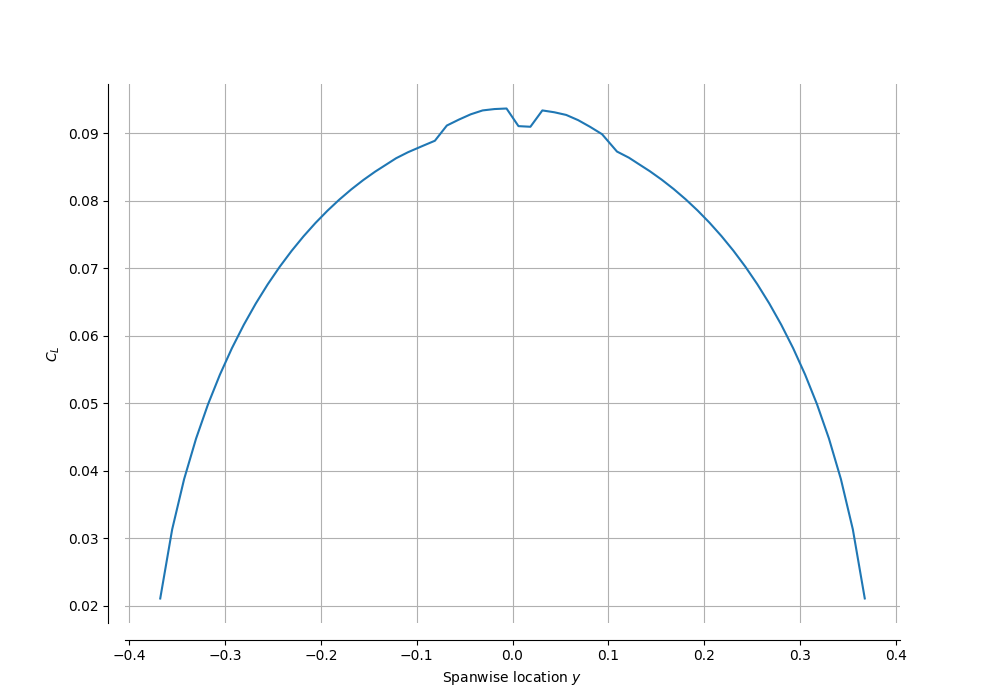
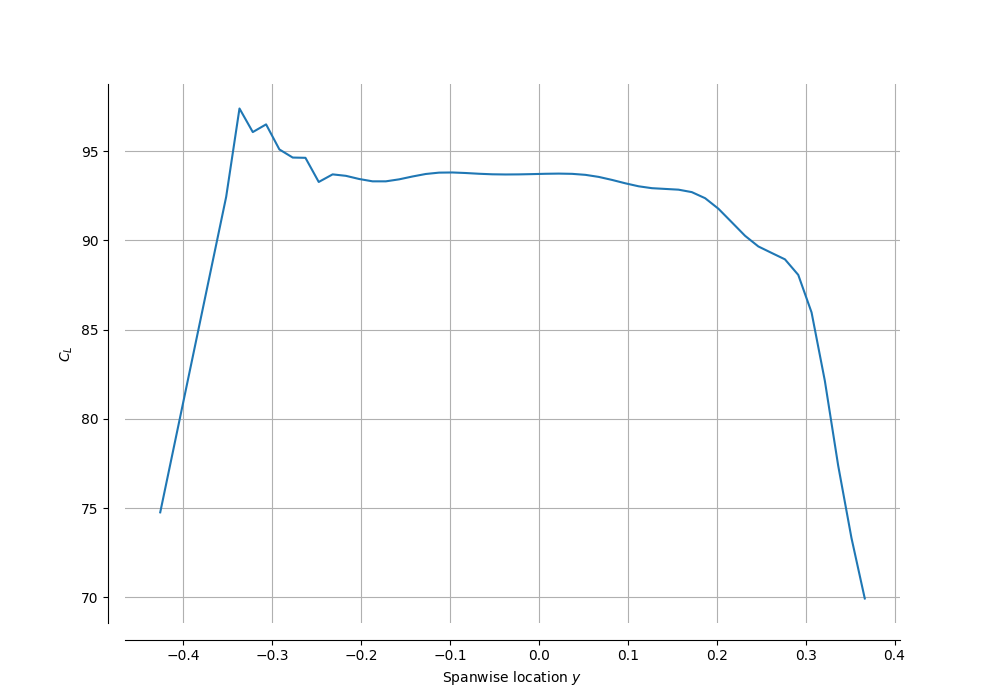
minor changes

diff --git a/optimisation/main_optimisation.py b/optimisation/main_optimisation.py
@@ -43,11 +43,11 @@ class master(om.Group):
                 N_elem_span += geometry_def.parametric_def[iParametric].span[iSpan].N_elem_span
         
         span_max = 0.748*2
-        self.add_subsystem('rethorst', subsys=Rethorst(span_max=span_max, vel_distr_shape=N_elem_span, panels_span_VLM=60))
+        self.add_subsystem('rethorst', subsys=Rethorst(span_max=span_max, vel_distr_shape=N_elem_span, panels_span_VLM=50, panels_chord_VLM=2))
 
         self.add_subsystem('prop_weight', subsys=propweight())
 
-        self.add_subsystem('EOAS', subsys=EOAS(panels_span_VLM=60, span_0=0.748, radii_shape=N_elem_span+1))
+        self.add_subsystem('EOAS', subsys=EOAS(panels_span_VLM=50, panels_chord_VLM=2, span_0=0.748, radii_shape=N_elem_span+1))
 
         self.add_subsystem('obj_function', subsys=obj_function())
 
@@ -91,12 +91,13 @@ class master(om.Group):
         # ================================      
         self.connect('EOAS.AS_point_0.wing_perf.L',                     'obj_function.lift')
         self.connect('EOAS.AS_point_0.wing_perf.D',                     'obj_function.drag')
+        self.connect('EOAS.wing.structural_mass',                       'obj_function.weight_struc')
 
         # ==================================
         # ===== Connecting Constraints =====
         # ==================================
         # self.connect('EOAS.AS_point_0.wing_perf.L',                     'constraints.lift')
-        # self.connect('EOAS.AS_point_0.total_perf.fuelburn',             'constraints.fuel_weight')
+        self.connect('EOAS.AS_point_0.fuelburn',                        'obj_function.fuelburn')
         # self.connect('EOAS.AS_point_0.total_perf.wing_structural_mass', 'constraints.struc_weight')
         # self.connect('helix.rotorcomp_0_thrust',                        'constraints.thrust')
         # self.connect('EOAS.AS_point_0.wing_perf.L',                     'constraints.drag')
@@ -115,14 +116,14 @@ class master(om.Group):
                 # self.add_design_var(name + "alpha_L0",lower=-0.5, upper=0.5)
                 # self.add_design_var(name + "Cl_alpha",lower=np.pi, upper=2.5*np.pi)
         
-        self.add_design_var('parameters.span', lower=1.*0.5, upper=span_max, scaler=1/0.748)
-        self.add_design_var('parameters.jet_loc', lower=-0.5*0.748, upper=0.5*0.748, scaler=1/0.374)
+        # self.add_design_var('parameters.span', lower=1.*0.5, upper=span_max, scaler=1/0.748)
+        self.add_design_var('parameters.jet_loc', lower=-0.5*0.748, upper=0.5*0.748, scaler=1.)
         self.add_design_var('parameters.chord', lower=0.2*0.48, upper=4.*0.48, scaler=1/0.48)
         # self.add_design_var('parameters.twist', lower=-3, upper=3, scaler=1.)
         
-        self.add_objective("obj_function.objective", scaler=1./0.02931652)
+        self.add_objective("obj_function.objective", scaler=1.)
         
-        self.add_constraint('EOAS.AS_point_0.wing_perf.L', equals=4.05033303)
+        self.add_constraint('EOAS.AS_point_0.wing_perf.L', equals=10.20319207)#9.02647648)
         # self.add_constraint('constraints.constraint_thrust_drag', equals=0.)
         # self.add_constraint('constraints.constraint_lift_weight', equals=0.)
         self.add_constraint('constraints.constraint_jetloc', upper=0.)
@@ -166,7 +167,7 @@ if True:
             dihed[iSpan] = parametric.parametric_def[iParametric].span[iSpan].dihed
 
 prob.setup(mode='fwd')
-print(span)
+
 prob.set_val(name + "span", val=span)
 prob.set_val(name + "chord",val=chord)
 prob.set_val(name + "twist",val=twist)
@@ -203,10 +204,11 @@ print('wing span: \t\t', prob.get_val('rethorst.span'))
 print('propeller location:\t', prob.get_val('rethorst.jet_loc'))
 print('chord: \t\t', prob.get_val('parameters.chord'))
 print('twist: \t\t', prob.get_val('parameters.twist'))
-print('L/D:\t\t', prob.get_val('EOAS.AS_point_0.wing_perf.aero_funcs.L')/prob.get_val('EOAS.AS_point_0.wing_perf.aero_funcs.D'))
-print('CL: \t\t', prob.get_val('EOAS.AS_point_0.wing_perf.CL'))
-print('CD: \t\t', prob.get_val('EOAS.AS_point_0.wing_perf.CD'))
+# print('L/D:\t\t', prob.get_val('EOAS.AS_point_0.wing_perf.aero_funcs.L')/prob.get_val('EOAS.AS_point_0.wing_perf.aero_funcs.D'))
+print('Lift: \t\t', prob.get_val('EOAS.AS_point_0.wing_perf.aero_funcs.L'))
+print('Drag: \t\t', prob.get_val('EOAS.AS_point_0.wing_perf.aero_funcs.D'))
 print('Propeller radius: \t', prob.get_val('helix.geodef_parametric_0_span'))
+print('Structural weight: \t', prob.get_val('EOAS.wing.structural_mass'))
 
 print("The fuel burn value is", prob["EOAS.AS_point_0.fuelburn"][0], "[kg]")
 print("The lift generated is:\t", prob.get_val('EOAS.AS_point_0.wing_perf.aero_funcs.L'), " N")
@@ -215,7 +217,7 @@ print("The lift generated is:\t", prob.get_val('EOAS.AS_point_0.wing_perf.aero_f
 # === Plotting of results ===
 # ===========================
 
-cl_dist = prob.get_val('EOAS.AS_point_0.wing_perf.aero_funcs.Cl')
+cl_dist = prob.get_val('EOAS.AS_point_0.wing_perf.aero_funcs.Cl') * 0.5*1.225*40**2
 y = prob['EOAS.wing.mesh'][0, :, 1]
 y_ = np.zeros((len(y)-1))
 

diff --git a/optimisation/EOAS/EOAS_group.py b/optimisation/EOAS/EOAS_group.py
@@ -10,7 +10,7 @@ from openaerostruct.integration.aerostruct_groups import AerostructGeometry, Aer
 class EOAS(om.Group):
 
     def initialize(self):
-        self.options.declare('panels_span_VLM', default=300)
+        self.options.declare('panels_span_VLM', default=100)
         self.options.declare('panels_chord_VLM', default=1)
         self.options.declare('span_0', default=10.)
         self.options.declare('radii_shape', default=20)
@@ -42,8 +42,14 @@ class EOAS(om.Group):
         }
 
         mesh = generate_mesh(mesh_dict) # twist_cp
-        chord_cp = np.ones((5))
-        twist_cp = np.ones((5))
+        chord_cp = np.ones((1))
+        twist_cp = np.zeros((5))
+
+        data_x_upper = np.array([0.000000,  0.005000, 0.007500, 0.012500, 0.025000, 0.050000, 0.075000, 0.100000, 0.150000, 0.200000, 0.250000, 0.300000, 0.350000, 0.400000, 0.450000, 0.500000, 0.550000, 0.600000, 0.650000, 0.700000, 0.750000, 0.800000, 0.850000, 0.900000, 0.950000, 1.000000])
+
+        data_y_upper = np.array([0.000000, 0.011930, 0.014360, 0.018150, 0.025080, 0.034770, 0.042020, 0.047990, 0.057320, 0.064230, 0.069260, 0.072700, 0.074630, 0.074870, 0.073130, 0.069780, 0.065170, 0.059560, 0.053110, 0.046000, 0.038470, 0.030840, 0.023210, 0.015580, 0.007950, 0.000320])
+
+        data_y_lower = np.array([0.000000, -0.011930, -0.014360, -0.018150, -0.025080, -0.034770, -0.042020, -0.047990, -0.057320, -0.064230, -0.069260, -0.072700, -0.074630, -0.074870, -0.073130, -0.069780, -0.065170, -0.059560, -0.053110, -0.046000, -0.038470, -0.030840, -0.023210, -0.015580, -0.007950, -0.000320])
 
         surface = {
             # Wing definition
@@ -52,8 +58,15 @@ class EOAS(om.Group):
             # reflected across the plane y = 0
             "S_ref_type": "wetted",  # how we compute the wing area,
             # can be 'wetted' or 'projected'
-            "fem_model_type": "tube",
-            "thickness_cp": np.array([0.1, 0.2, 0.3]),
+            "fem_model_type": "wingbox",
+            "spar_thickness_cp": np.array([0.004, 0.005, 0.005, 0.008, 0.008, 0.01]),  # [m]
+            "skin_thickness_cp": np.array([0.005, 0.01, 0.015, 0.020, 0.025, 0.026]),
+            "original_wingbox_airfoil_t_over_c": 0.12,
+            "data_x_upper":data_x_upper,
+            "data_x_lower":data_x_upper,
+            "data_y_upper":data_y_upper,
+            "data_y_lower":data_y_lower,
+            "strength_factor_for_upper_skin": 1.0,
             # "twist_cp": twist_cp,
             "mesh": mesh,
             "span": span_0,
@@ -132,10 +145,24 @@ class EOAS(om.Group):
         self.connect(name + ".mesh", point_name + ".coupled." + name + ".mesh")
 
         # Connect performance calculation variables
+        point_name = 'AS_point_0'
         com_name = point_name + "." + name + "_perf"
-        self.connect(name + ".radius", com_name + ".radius")
-        self.connect(name + ".thickness", com_name + ".thickness")
+        # self.connect(name + ".radius", com_name + ".radius")
+        # self.connect(name + ".nodes", com_name + ".nodes")
+        self.connect(name + ".t_over_c", com_name + ".t_over_c")
+
         self.connect(name + ".nodes", com_name + ".nodes")
         self.connect(name + ".cg_location", point_name + "." + "total_perf." + name + "_cg_location")
         self.connect(name + ".structural_mass", point_name + "." + "total_perf." + name + "_structural_mass")
-        self.connect(name + ".t_over_c", com_name + ".t_over_c")
+
+        # Connect wingbox properties to von Mises stress calcs
+        self.connect(name + ".Qz", com_name + ".Qz")
+        self.connect(name + ".J", com_name + ".J")
+        self.connect(name + ".A_enc", com_name + ".A_enc")
+        self.connect(name + ".htop", com_name + ".htop")
+        self.connect(name + ".hbottom", com_name + ".hbottom")
+        self.connect(name + ".hfront", com_name + ".hfront")
+        self.connect(name + ".hrear", com_name + ".hrear")
+
+        self.connect(name + ".spar_thickness", com_name + ".spar_thickness")
+        # self.connect(name + ".t_over_c", com_name + ".t_over_c")

diff --git a/optimisation/rethorst_dir/rethorst_group.py b/optimisation/rethorst_dir/rethorst_group.py
@@ -31,12 +31,11 @@ class Rethorst(om.ExplicitComponent):
 
         self.add_output('correction_matrix',    shape   =   (panels_chord_VLM*panels_span_VLM, panels_chord_VLM*panels_span_VLM), 
                                                 val     =   np.zeros((panels_chord_VLM*panels_span_VLM, panels_chord_VLM*panels_span_VLM)))
-        self.add_output('wing_veldistr',        shape   =   (panels_span_VLM*panels_chord_VLM), 
+        self.add_output('wing_veldistr',        shape   =   (panels_span_VLM), 
                                                 val     =   np.zeros((panels_span_VLM)), units='m/s')
         self.add_output('jet_radius', val=1., units='m')
 
     def compute(self, inputs, outputs):
-        start = time.time()
         span                    = np.copy(inputs['span'])
         jet_loc                 = np.copy(inputs['jet_loc'])
         Vinf                    = np.copy(inputs['vinf'][0])
@@ -63,7 +62,7 @@ class Rethorst(om.ExplicitComponent):
         if np.isnan(any(sum(total_correction))):
             raise ValueError('total correction contains nan!')
         if np.isnan(any(vel_vec)):
-            raise ValueError('total correction contains nan!')
+            raise ValueError('velocity vector contains nan!')
 
         print('\n============')
         print('==Rethorst==')
@@ -75,12 +74,8 @@ class Rethorst(om.ExplicitComponent):
         outputs['correction_matrix'] = total_correction
         outputs['wing_veldistr'] = vel_vec
 
-        timediff = time.time() - start
-        # print(f'total time computing Rethorst: {timediff}')
-
     def compute_jacvec_product(self, inputs, d_inputs, d_outputs, mode):
          # Clear all Seeds in Memory
-        start = time.time()
         self._zero_seeds(inputs)
 
         span                    = inputs['span']
@@ -127,8 +122,7 @@ class Rethorst(om.ExplicitComponent):
             self._get_seeds_rev(d_inputs)
             # print('Rethorst derivatives:\tReverse')
         
-        timediff = time.time() - start
-        print(f'total time computing Rethorst derivatives: {timediff}')
+        # timediff = time.time() - start
 
     def _zero_seeds(self, inputs):
         # ===== Clear Seeds =====
@@ -143,7 +137,7 @@ class Rethorst(om.ExplicitComponent):
         self.vinfd                      = np.array([0.], order='F')
         self.vel_distr_inputd           = np.zeros((len(vel_distr_input)), order='F')
         self.radii_inputd               = np.zeros((len(radii_input)), order='F')
-        self.vel_vecd                   = np.zeros((panels_span_vlm*panels_chord_vlm), order='F')
+        self.vel_vecd                   = np.zeros((panels_span_vlm), order='F')
         self.total_correctiond          = np.zeros((panels_span_vlm*panels_chord_vlm, panels_span_vlm*panels_chord_vlm), order='F')
 
         # ===== Reverse Seeds ===== 
@@ -152,7 +146,7 @@ class Rethorst(om.ExplicitComponent):
         self.vinfb                      = np.array([0.], order='F')
         self.vel_distr_inputb           = np.zeros((len(vel_distr_input)), order='F')
         self.radii_inputb               = np.zeros((len(radii_input)), order='F')
-        self.vel_vecb                   = np.zeros((panels_span_vlm*panels_chord_vlm), order='F')
+        self.vel_vecb                   = np.zeros((panels_span_vlm), order='F')
         self.total_correctionb          = np.zeros((panels_span_vlm*panels_chord_vlm, panels_span_vlm*panels_chord_vlm), order='F')
 
     def _set_seeds_fwd(self, d_inputs):

diff --git a/optimisation/obj_function.py b/optimisation/obj_function.py
@@ -9,22 +9,33 @@ class obj_function(om.ExplicitComponent):
         # self.add_input('fuelburn', val=1.)
         self.add_input('lift', val=1., units='N')
         self.add_input('drag', val=1., units='N')
+        self.add_input('fuelburn', val=1.)#, units='N')
+        self.add_input('weight_struc', val=1.)
 
         self.add_output('objective', val=1.)
 
         # self.declare_partials('objective', 'fuelburn')
         self.declare_partials('objective', 'lift')
         self.declare_partials('objective', 'drag')
+        self.declare_partials('objective', 'fuelburn')
+        self.declare_partials('objective', 'weight_struc')
 
     def compute(self, inputs, outputs):
         lift = inputs['lift']
         drag = inputs['drag']
-        
-        outputs['objective'] = drag
+        fuelburn = inputs['fuelburn']
+        weight_struc = inputs['weight_struc']*1000
+        total_weight = fuelburn+weight_struc
+        print(f'fuelburn:\t{fuelburn} kg')
+        print(f'weight_struc:\t{weight_struc} kg')
+        print(f'total_weight:\t{total_weight} kg')
+        outputs['objective'] = total_weight
 
     def compute_partials(self, inputs, partials):
         lift = inputs['lift']
         # drag = inputs['drag']
 
         partials['objective', 'lift'] = 0.
-        partials['objective', 'drag'] = 1.
+        partials['objective', 'drag'] = 0.
+        partials['objective', 'fuelburn'] = 1.
+        partials['objective', 'weight_struc'] = 1000

diff --git a/optimisation/parametersinput.py b/optimisation/parametersinput.py
@@ -21,11 +21,11 @@ class parameters(om.IndepVarComp):
         self.add_output("load_factor", val=1.)
         self.add_output("empty_cg", val=np.zeros((3)), units="m")
 
-        self.add_output("span", val=0.748, units="m")
-        self.add_output("jet_loc", val=0.0, units="m")
+        self.add_output("span", val=0.748, units="m") # 0.748
+        self.add_output("jet_loc", val=-0.3, units="m")
 
         twist_cp = np.zeros((5))
-        chord_cp = np.ones((5))*0.48
+        chord_cp = np.ones((1)) # 0.48
 
         self.add_output("twist", shape=(5), val=twist_cp, units="deg")
-        self.add_output("chord", shape=(5), val=chord_cp, units="m")
+        self.add_output("chord", shape=(np.shape(chord_cp)), val=chord_cp, units="m")
